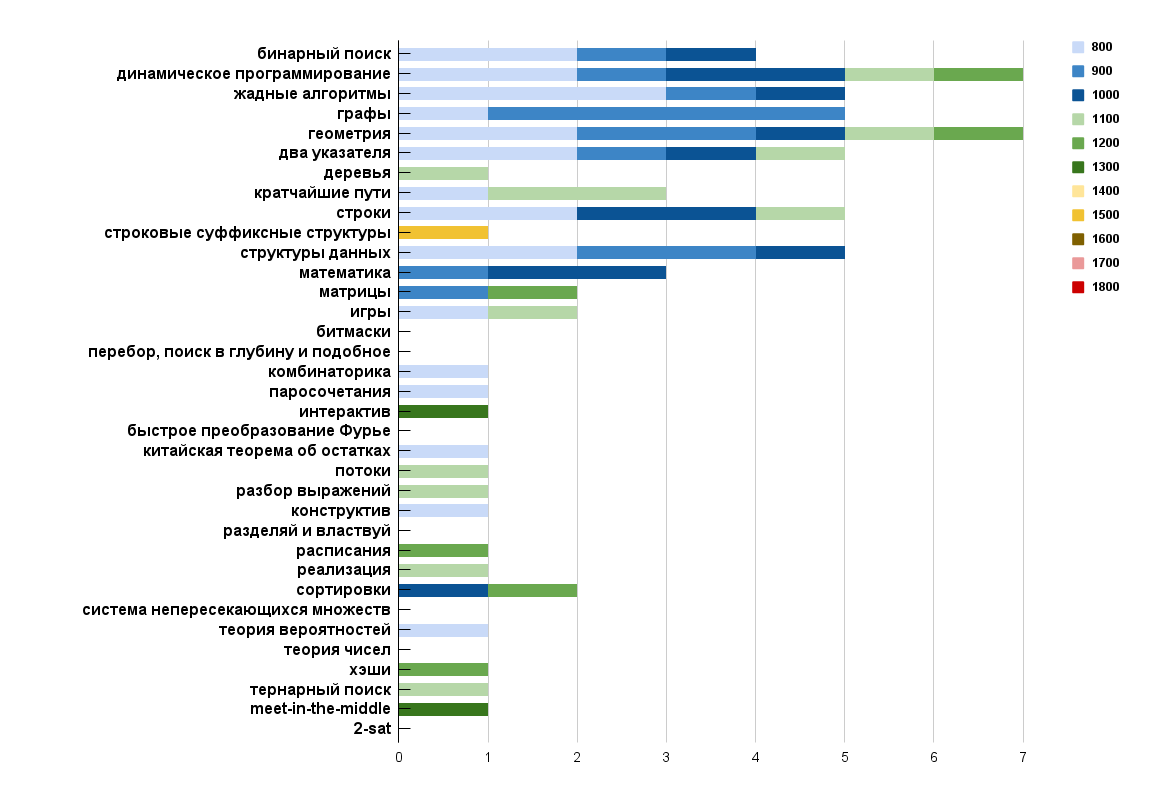
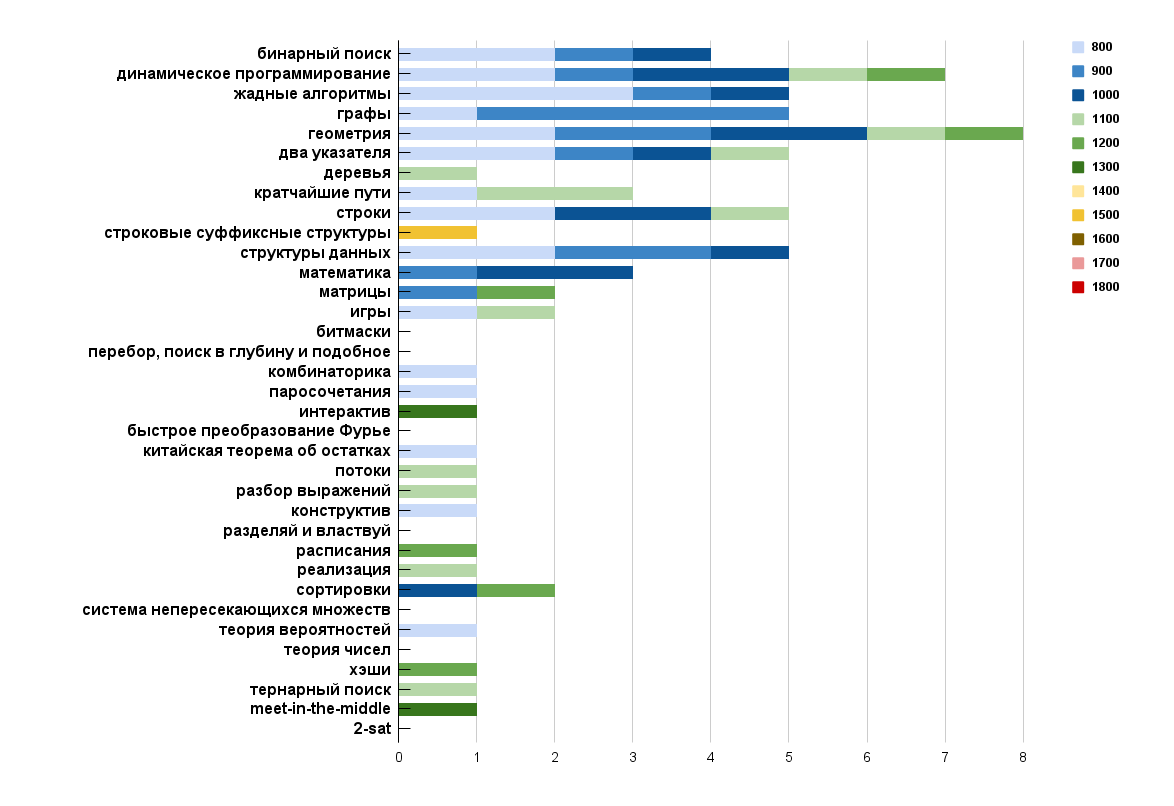
Solve 1000 in geometry.

diff --git a/kotlin/CodeforcesArchive/src/main/kotlin/geometry/compl_1000/1620B_Triangles_on_rectangle.kt b/kotlin/CodeforcesArchive/src/main/kotlin/geometry/compl_1000/1620B_Triangles_on_rectangle.kt
@@ -1,0 +1,22 @@
+package geometry.compl_1000
+
+fun main(){
+    val t = readln().toInt()
+    repeat(t){
+        val (w, h) = readln().split(" ").map { it.toLong() }
+        val dataLower = readln().split(" ").map { it.toLong() }
+        val dataUpper = readln().split(" ").map { it.toLong() }
+        val dataLeft = readln().split(" ").map { it.toLong() }
+        val dataRight = readln().split(" ").map { it.toLong() }
+        println(
+            kotlin.math.max(
+                kotlin.math.max(
+                    (dataLower.last() - dataLower[1]) * h, (dataUpper.last() - dataUpper[1]) * h
+                ),
+                kotlin.math.max(
+                    (dataLeft.last() - dataLeft[1]) * w, (dataRight.last() - dataRight[1]) * w
+                )
+            )
+        )
+    }
+}
